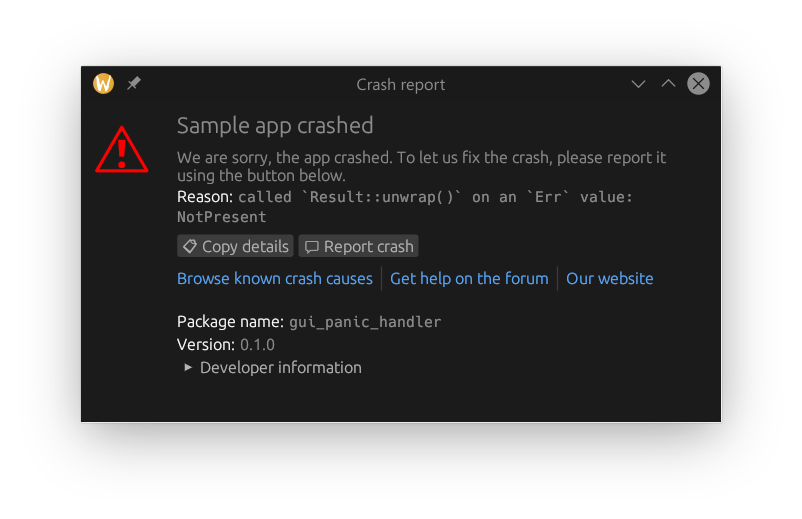
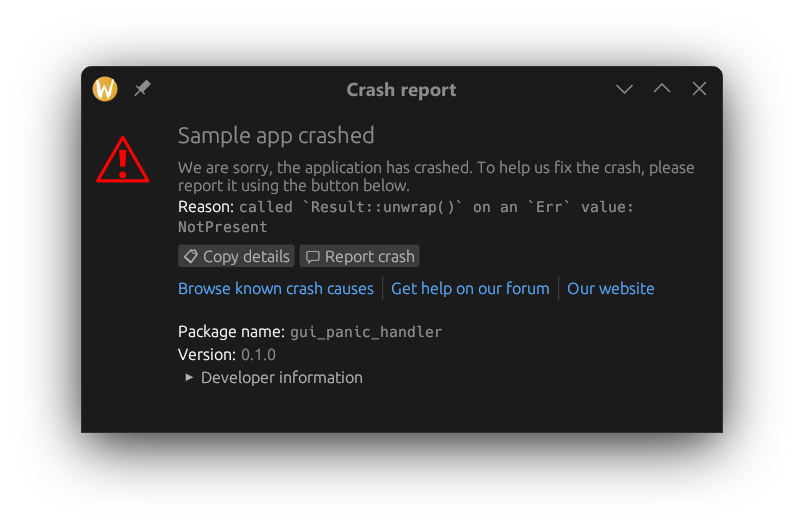
Update example strings

Changed region(s): [[0.0623, 0.0925, 0.9352, 0.894], [0.2182, 0.5857, 0.5611, 0.7399]]

diff --git a/examples/example.rs b/examples/example.rs
@@ -4,14 +4,14 @@ fn main() {
 
     gui_panic_handler::register(AppInfo {
         name: "Sample app",
-        additional_text: "We are sorry, the app crashed. To let us fix the crash, please report it using the button below.",
+        additional_text: "We are sorry, the application has crashed. To help us fix the crash, please report it using the button below.",
         links: vec![
             Link {
                 label: "Browse known crash causes",
                 url: "https://example.com",
             },
             Link {
-                label: "Get help on the forum",
+                label: "Get help on our forum",
                 url: "https://example.com",
             },
             Link {

diff --git a/src/lib.rs b/src/lib.rs
@@ -20,14 +20,14 @@ use gui_panic_handler::Link;
 
 gui_panic_handler::register(AppInfo {
     name: "Sample app",
-    additional_text: "We are sorry, the app crashed. To let us fix the crash, please report it using the button below.",
+    additional_text: "We are sorry, the application has crashed. To help us fix the crash, please report it using the button below.",
     links: vec![
         Link {
             label: "Browse known crash causes",
             url: "https://example.com",
         },
         Link {
-            label: "Get help on the forum",
+            label: "Get help on our forum",
             url: "https://example.com",
         },
         Link {
